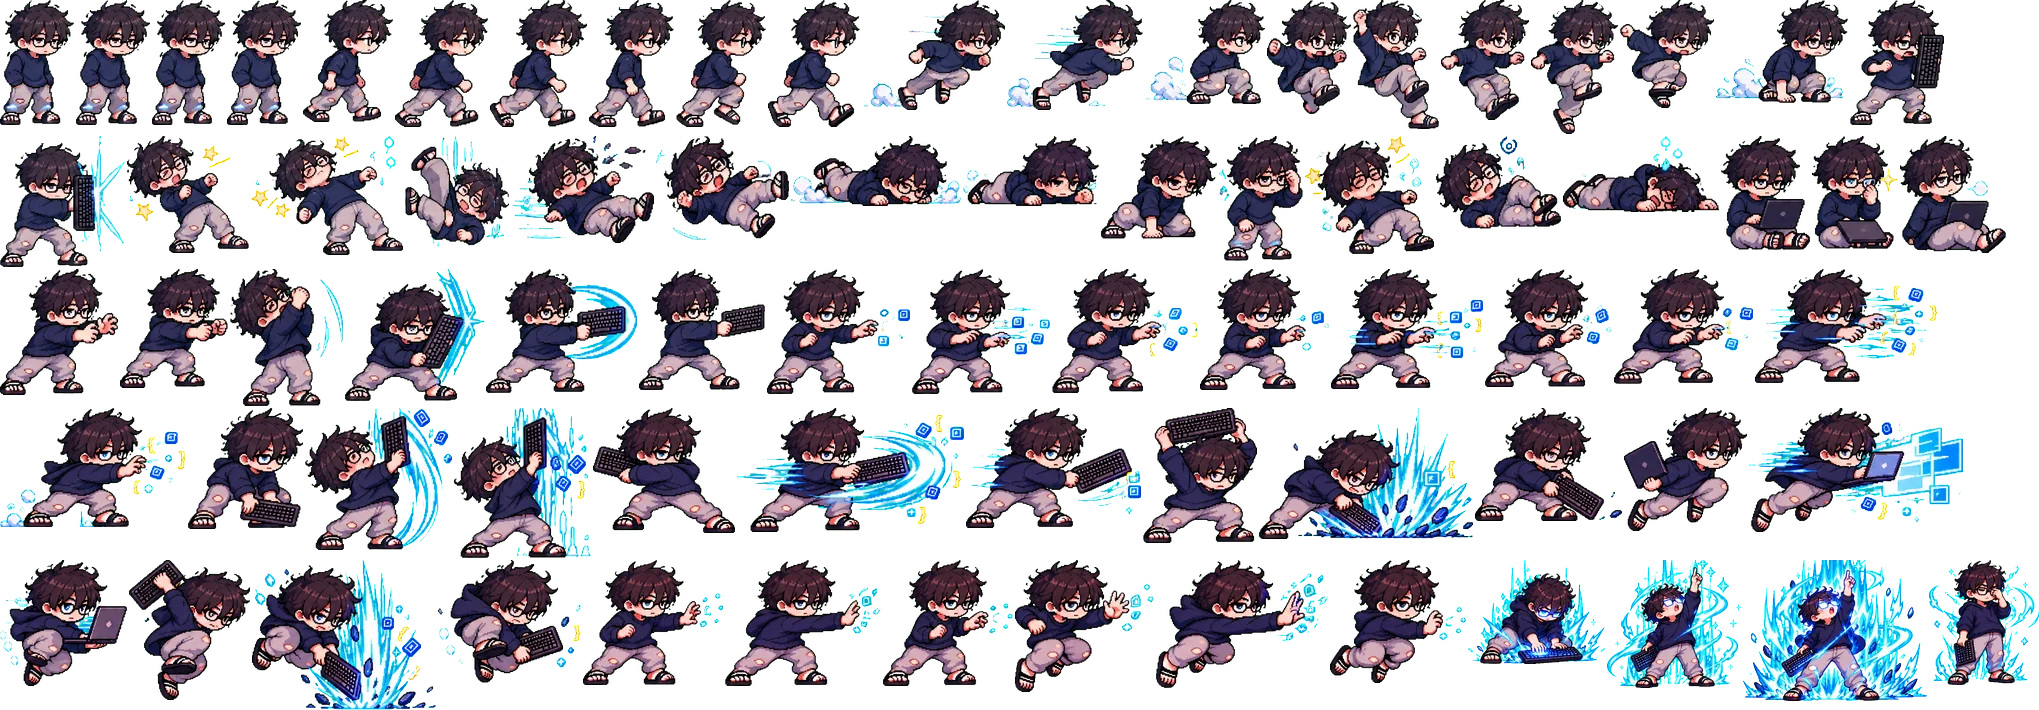
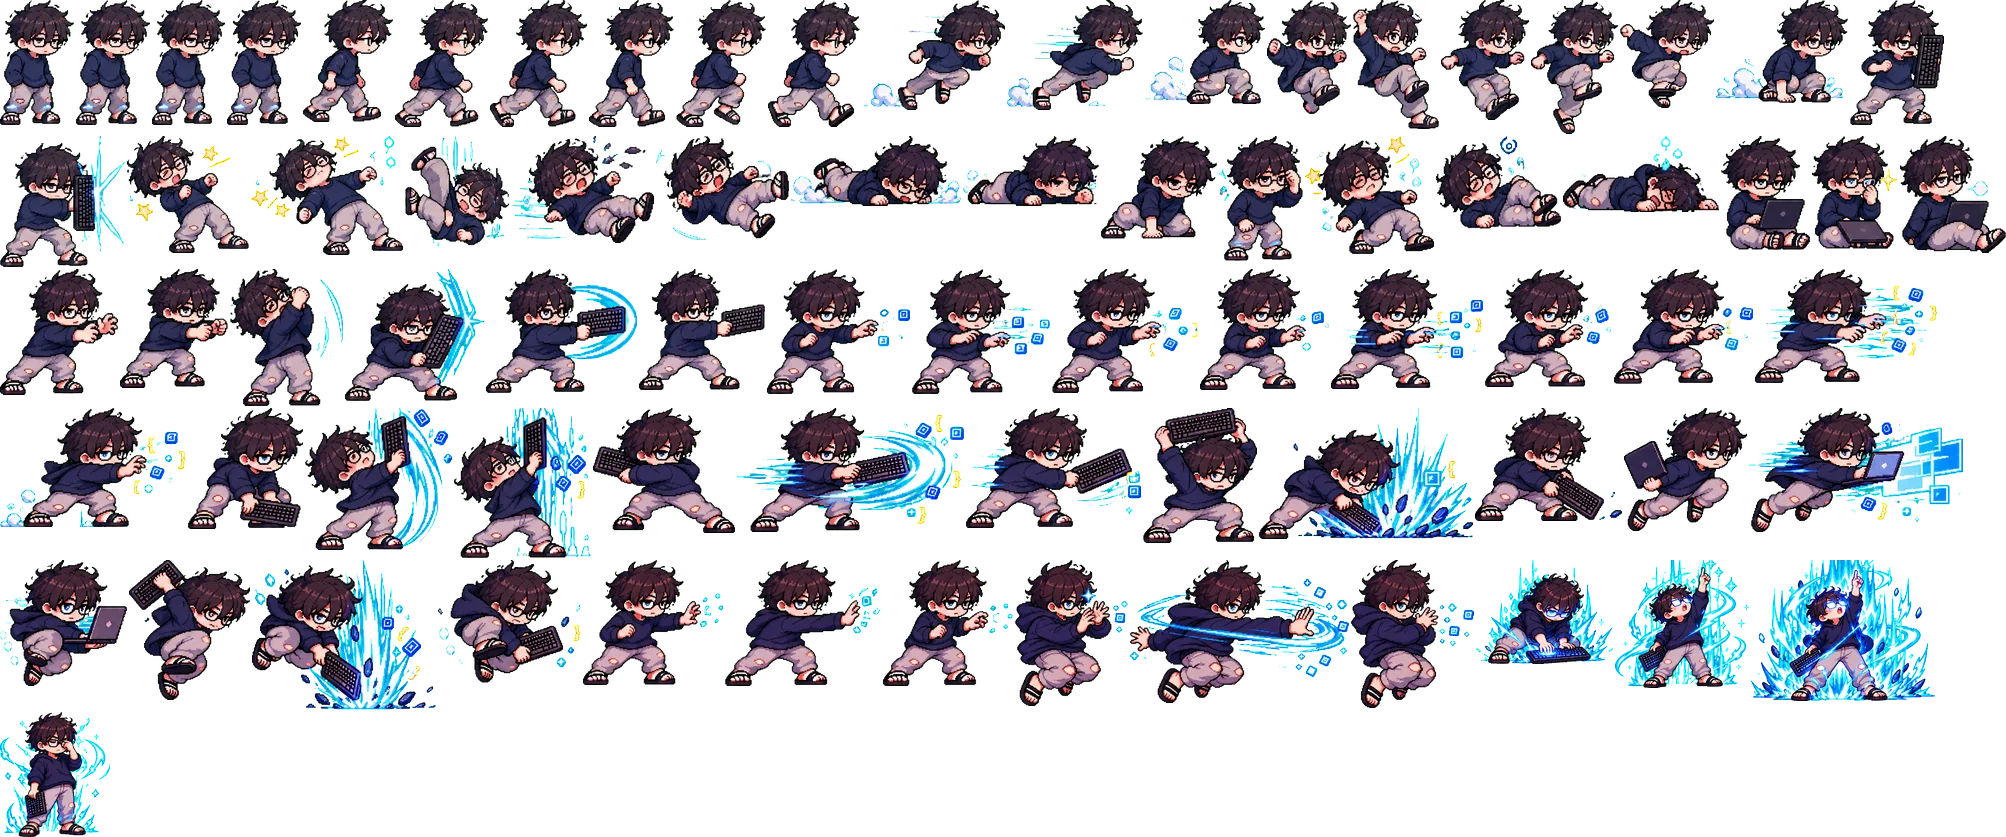
격투: 건모 공중 L Alt+Tab — 모션을 두 손으로 화면을 넘기는 손짓으로 새로 그림(땅 L과 구분, 원본 s9.png·배율 0.616·기준점 고정), 판정 아래쪽 줄임(발 아래 96→56px, 높이 160→120), 맞히는 순간 두 사람을 감싸는 창 + 떠난 자리 흐린 창(전엔 맞자마자 창이 사라지고 자리만 바뀜), 패치노트

diff --git a/src/components/Fight/render.ts b/src/components/Fight/render.ts
@@ -117,6 +117,12 @@ interface FxAnim {
   glow: boolean;
   /** 아래 가운데 기준 (먼지 등 바닥 것) */
   ground: boolean;
+  /** 그릴 크기(px)를 정해 둘 때 (없으면 그림 크기 × k) */
+  size?: [number, number];
+  /** 이 프레임부터 재생 (앞 프레임 건너뜀) */
+  from?: number;
+  /** 진하기 배율 */
+  alpha?: number;
 }
 
 function glowAt(g: CanvasRenderingContext2D, x: number, y: number, r: number, color: string) {
@@ -145,25 +151,35 @@ export class FightRenderer {
   private fx: FxAnim[] = [];
 
   /** 그림 효과 하나 띄우기 (그 캐릭터에 그 효과 그림이 있을 때만) — 성공하면 true */
-  private spawnFx(ch: number, name: string, x: number, y: number, face: number, dur = 16, ground = false) {
+  private spawnFx(
+    ch: number,
+    name: string,
+    x: number,
+    y: number,
+    face: number,
+    dur = 16,
+    ground = false,
+    opt: { size?: [number, number]; from?: number; alpha?: number } = {}
+  ) {
     const id = CHARS[ch].id;
     const d = FX_SETS[id]?.[name];
     if (!d) return false;
-    this.fx.push({ key: `${id}-${name}`, n: d[0], x, y, t: 0, dur, flip: face < 0, k: d[1], glow: d[2], ground });
+    this.fx.push({ key: `${id}-${name}`, n: d[0], x, y, t: 0, dur, flip: face < 0, k: d[1], glow: d[2], ground, ...opt });
     return true;
   }
 
   private drawFx() {
     const g = this.g;
     for (const e of this.fx) {
-      const k = Math.min(e.n - 1, Math.floor((e.t / e.dur) * e.n));
+      const f0 = e.from ?? 0;
+      const k = Math.min(e.n - 1, f0 + Math.floor((e.t / e.dur) * (e.n - f0)));
       const im = fxImg(`${e.key}-${k}`);
       if (!im) continue;
-      const w = (im.width / 1.72) * e.k,
-        h = (im.height / 1.72) * e.k;
+      const w = e.size ? e.size[0] : (im.width / 1.72) * e.k,
+        h = e.size ? e.size[1] : (im.height / 1.72) * e.k;
       g.save();
       if (e.glow) g.globalCompositeOperation = "lighter";
-      g.globalAlpha = Math.min(1, 1.6 * (1 - e.t / e.dur) + 0.2);
+      g.globalAlpha = Math.min(1, 1.6 * (1 - e.t / e.dur) + 0.2) * (e.alpha ?? 1);
       g.translate(e.x, e.y);
       if (e.flip) g.scale(-1, 1);
       g.drawImage(im, -w / 2, e.ground ? -h : -h / 2, w, h);
@@ -276,6 +292,33 @@ export class FightRenderer {
       } else if (e.k === "dash") {
         const a = s.p[e.p];
         if (e.v === 0) this.spawnFx(a.ch, "dust", a.x / SUB - a.face * 22, screenY(a.h), a.face, 18, true);
+      } else if (e.k === "swap") {
+        // 건모 Alt+Tab: 맞히는 순간 공격 동작이 끝나 붙어 있던 창이 사라지므로 따로 띄움
+        //  - 지금 두 사람을 감싸는 창 하나 (히트스톱 동안 꽉 참 → 깜빡 → 사라짐) = "창이 바뀜"
+        //  - 건모가 떠난 자리(e.x·e.h)에 흐린 창 하나 + 거기서 지금 자리로 날아가는 파란 조각
+        const a = s.p[e.p],
+          d = s.p[1 - e.p];
+        const ax = a.x / SUB,
+          dx = d.x / SUB;
+        const cy = screenY(Math.max(a.h, d.h) + 32 * SUB);
+        this.spawnFx(a.ch, "win", (ax + dx) / 2, cy, a.face, 34, false, {
+          size: [Math.abs(ax - dx) + 84, 96],
+          from: 1,
+          alpha: 0.85,
+        });
+        const ox = e.x / SUB,
+          oy = screenY(e.h + 32 * SUB);
+        if (Math.abs(ox - ax) > 24 || Math.abs(oy - cy) > 24) {
+          this.spawnFx(a.ch, "win", ox, oy, a.face, 20, false, { size: [62, 76], from: 2, alpha: 0.5 });
+          for (let i = 0; i < 12; i++) {
+            const u = i / 11;
+            this.parts.push({
+              x: ox + (ax - ox) * u, y: oy + (cy - oy) * u + (Math.random() - 0.5) * 24,
+              vx: Math.sign(ax - ox) * (0.6 + Math.random()), vy: -0.2 - Math.random() * 0.3,
+              life: 16, max: 16, color: i % 2 ? "#9BD0FF" : "#3B9CFF", size: 1.5, kind: "shard",
+            });
+          }
+        }
       }
       if (e.k === "hit") {
         const power = e.m === "X" ? 2 : e.m === "H" || e.m === "S" ? 1 : 0;

diff --git a/src/components/Fight/PatchNotes.tsx b/src/components/Fight/PatchNotes.tsx
@@ -27,6 +27,7 @@ export const PATCHES: Patch[] = [
       "낭떠러지 — 떨어진 뒤 땅에서 4초를 못 버티고 또 떨어지면 무적 없이 체력 6% 깎임. 다시 내려온 뒤의 무적은 공격하면 끝",
       "돌진 잡기 — 게이지가 있어도 대시 중 J · K 단독이 바로 나가요 (4프레임 지연 없앰). 하나를 먼저 누르고 곧바로 나머지를 눌러도 돌진 잡기",
       "건모 — L Ctrl+A로 ⏸ 멈춘 상대가 잡기에 안 잡히던 문제, 공중 L Alt+Tab 뒤 점프하면 꼭대기에서 또 멈추던 문제, 달밤 마천루에서 건물 속으로 들어가던 문제",
+      "건모 — 공중 L Alt+Tab: 판정 아래쪽을 줄임 (발 아래 96 → 56px), 모션을 두 손으로 화면을 넘기는 손짓으로 새로 그림 (땅 L과 구분되게), 맞히는 순간 두 사람을 감싸는 창이 떠요 (전엔 맞히자마자 창이 사라지고 자리만 바뀜)",
       "판정 — 동시에 맞으면 1P만 마무리 보너스 · 띄우기가 붙던 문제, 공중에서 쏜 탄이 띄워진 상대를 맞히면 쏜 쪽이 끌려가던 문제, 업화주가 늘 오른쪽으로만 밀던 문제, 가드하다 발판에서 밀려 떨어지면 공중에서 가드 자세이던 문제",
       "조작 — 뜬 직후 누른 2단 점프가 씹히던 문제, 라운드 시작 전부터 누르고 있던 버튼이 시작하자마자 나가던 문제, 휴대폰에서 아주 짧게 친 버튼을 놓치던 문제",
       "온라인 — 서로 버전이 다르거나 경기가 어긋나면 알려 주고 멈춰요 · 지연이 있을 때 타격음 · 이펙트가 빠지던 문제 · AI는 가드로 버티는 상대에게 돌진 잡기를 써요",

diff --git a/src/lib/fight/sim.ts b/src/lib/fight/sim.ts
@@ -1726,7 +1726,8 @@ function applyHit(s: State, ai: number, m: MoveDef, srcX: number, mid: MoveId, p
       d.pulled = 0;
       // 때린 쪽도 상대가 혼란에 떠 있는 동안 천천히 떨어짐 (공중 콤보 넣을 시간)
       a.juggle = d.stun;
-      s.ev.push({ k: "swap", p: ai, x: d.x, h: d.h + 70 * SUB, v: 0 });
+      // (x·h = 때린 쪽이 원래 있던 자리 — 화면에서 "떠난 자리"에 창을 남기는 데 씀)
+      s.ev.push({ k: "swap", p: ai, x: ax, h: ah, v: 0 });
     }
     if (m.trap && !kd && !popBonus) {
       // 비눗방울에 갇힘: 그 자리에서 둥실 떠오름

diff --git a/src/lib/fight/chars.ts b/src/lib/fight/chars.ts
@@ -902,7 +902,8 @@ const RAW: CharSrc[] = [
           hitstun: 46,
           push: 0,
           hitstop: 10,
-          box: { x: -4, y: 64, w: 90, h: 160 },
+          // 발 위 64px ~ 발 아래 56px (전엔 아래 96px까지라 너무 넓었음 — 10.06 아래쪽 줄임)
+          box: { x: -4, y: 64, w: 90, h: 120 },
           pause: false,
           swap: true,
           cancel: undefined,
